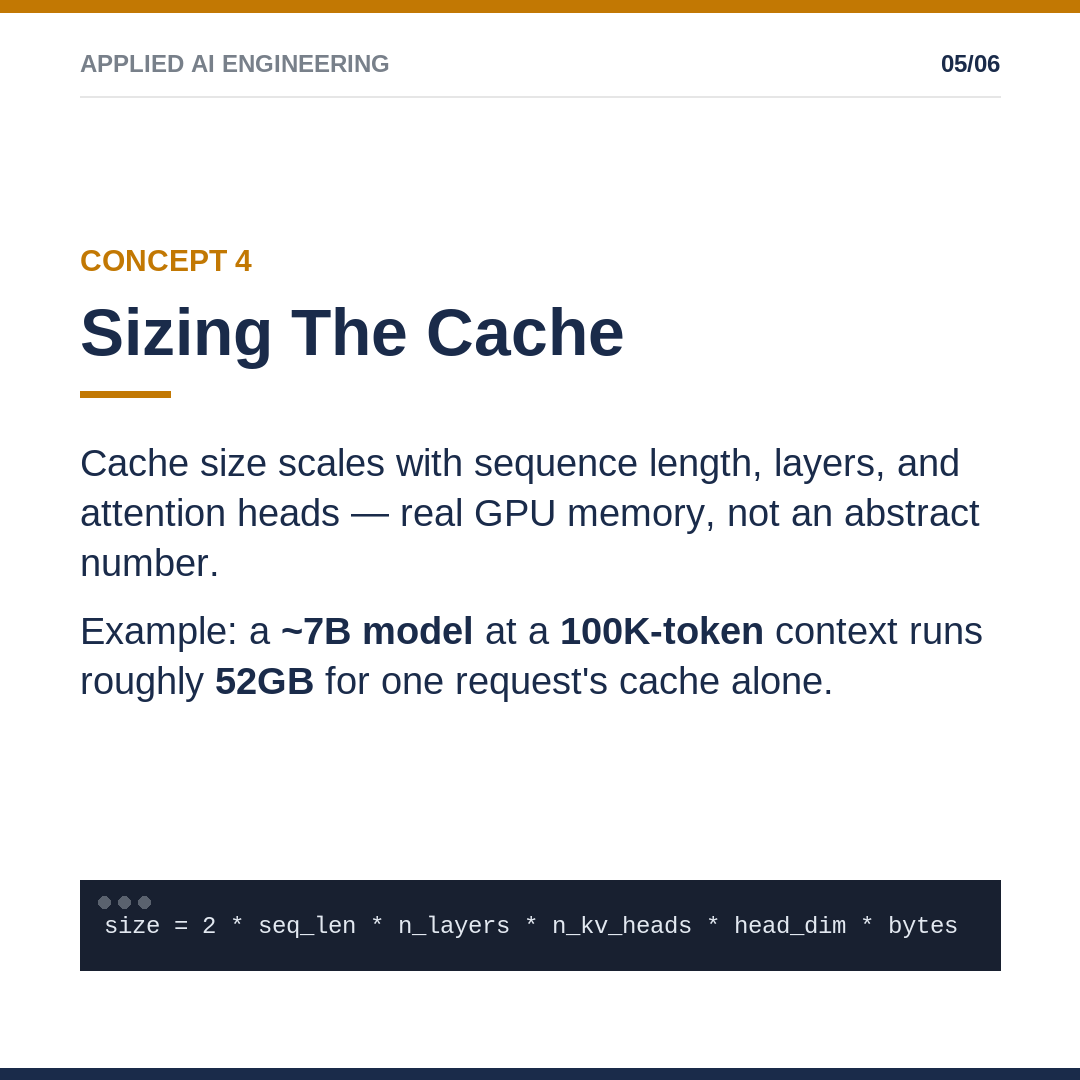
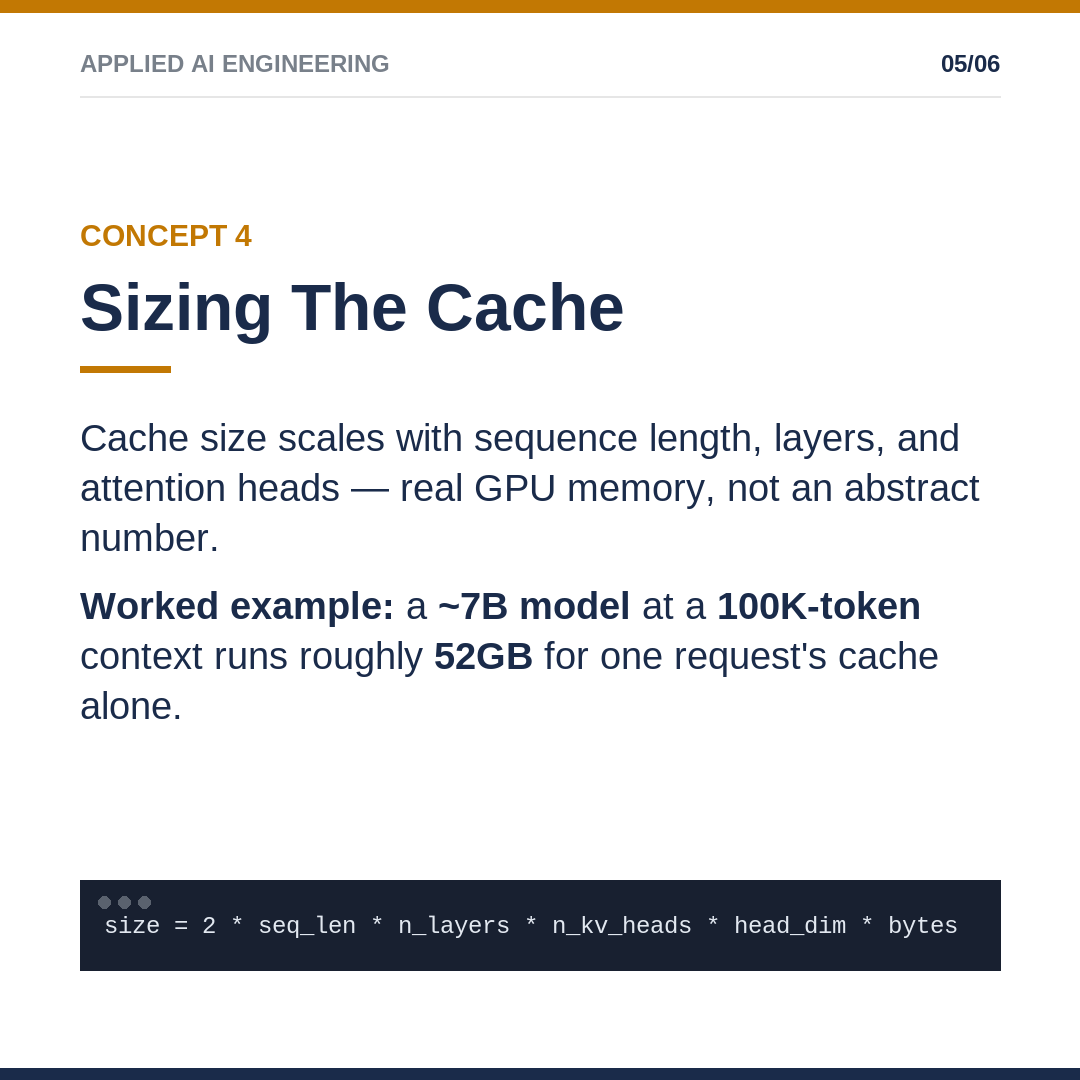
posts: add diagram primitives, bold Example labels, add diagrams to 04/05/06/08/09/14/15, promote 06 and Q&A posts 19-21 to carousels

Changed region(s): [[0.0611, 0.3972, 0.9167, 0.6722], [0.0611, 0.1833, 0.5806, 0.3667]]

diff --git a/.claude/skills/posts/carousel_template.py b/.claude/skills/posts/carousel_template.py
@@ -104,7 +104,88 @@ def draw_rich_line(draw, x, y, line_words, font_reg, font_bold, fill):
             cx += draw.textlength(text, font=f)
         cx += space_w
 
-def slide(filename, slide_no, total, kicker, headline, body_lines, code=None, closing_q=None, series="APPLIED AI ENGINEERING"):
+# --- diagrams: for spatial/mechanistic concepts (pipelines, loops, stacks,
+# segmented budgets) that read faster as a picture than as a paragraph.
+# Each helper draws into a fixed-height band and returns nothing; slide()
+# reserves DIAGRAM_H for whichever one is passed via `diagram=`. ---
+
+DIAGRAM_H = 260
+
+def _fit_text(draw, text, font_path, max_size, min_size, max_width):
+    size = max_size
+    font = ImageFont.truetype(font_path, size)
+    while size > min_size and draw.textlength(text, font=font) > max_width:
+        size -= 2
+        font = ImageFont.truetype(font_path, size)
+    return font
+
+def flow_diagram(draw, x, y, w, steps):
+    """Horizontal boxes connected by arrows: A -> B -> C.
+    steps: list of short label strings (2-5 items)."""
+    n = len(steps)
+    box_h = 100
+    gap = 46
+    box_w = (w - gap * (n - 1)) // n
+    by = y + (DIAGRAM_H - box_h) // 2
+    for i, label in enumerate(steps):
+        bx = x + i * (box_w + gap)
+        draw.rectangle([bx, by, bx + box_w, by + box_h], outline=NAVY, width=3)
+        f = _fit_text(draw, label, FONT_BOLD, 30, 16, box_w - 24)
+        tw = draw.textlength(label, font=f)
+        draw.text((bx + (box_w - tw) / 2, by + (box_h - f.size) / 2 - 4), label, font=f, fill=NAVY)
+        if i < n - 1:
+            ax0 = bx + box_w
+            ax1 = ax0 + gap
+            ay = by + box_h // 2
+            draw.line([(ax0 + 6, ay), (ax1 - 10, ay)], fill=AMBER, width=4)
+            draw.polygon([(ax1 - 10, ay - 9), (ax1, ay), (ax1 - 10, ay + 9)], fill=AMBER)
+
+def stack_diagram(draw, x, y, w, layers):
+    """Vertical stacked boxes, top to bottom, connected by short lines.
+    layers: list of short label strings (3-6 items), top of stack first."""
+    n = len(layers)
+    gap = 12
+    box_h = (DIAGRAM_H - gap * (n - 1)) // n
+    for i, label in enumerate(layers):
+        ly = y + i * (box_h + gap)
+        draw.rectangle([x, ly, x + w, ly + box_h], outline=NAVY, width=3)
+        draw.rectangle([x, ly, x + 10, ly + box_h], fill=AMBER)
+        f = _fit_text(draw, label, FONT_BOLD, 30, 16, w - 50)
+        draw.text((x + 26, ly + (box_h - f.size) / 2 - 4), label, font=f, fill=NAVY)
+        if i < n - 1:
+            cx = x + w // 2
+            draw.line([(cx, ly + box_h), (cx, ly + box_h + gap)], fill=AMBER, width=3)
+
+def bar_diagram(draw, x, y, w, segments, dip_label=None):
+    """One horizontal bar split into proportional labeled segments.
+    segments: list of (label, weight) — weight is relative share of the bar.
+    dip_label: optional label for a shaded band across the bar's middle third,
+    used for a 'lost in the middle' style callout instead of a real curve."""
+    bar_h = 90
+    by = y + 40
+    total = sum(wt for _, wt in segments)
+    bx = x
+    f_lab = ImageFont.truetype(FONT_REG, 22)
+    for label, wt in segments:
+        seg_w = int(w * wt / total)
+        draw.rectangle([bx, by, bx + seg_w, by + bar_h], outline=NAVY, width=3)
+        lw = draw.textlength(label, font=f_lab)
+        if lw <= seg_w - 10:
+            draw.text((bx + (seg_w - lw) / 2, by + bar_h + 14), label, font=f_lab, fill=NAVY)
+        bx += seg_w
+    if dip_label:
+        # shaded band across the bar's middle third, drawn as amber hatching
+        # (no alpha compositing needed — stays reliable regardless of draw backend)
+        dip_x0 = x + int(w * 0.33)
+        dip_x1 = x + int(w * 0.67)
+        for hx in range(dip_x0, dip_x1, 14):
+            draw.line([(hx, by), (hx, by + bar_h)], fill=(230, 190, 130), width=3)
+        draw.rectangle([dip_x0, by, dip_x1, by + bar_h], outline=AMBER, width=4)
+        f_dip = ImageFont.truetype(FONT_BOLD, 24)
+        dw = draw.textlength(dip_label, font=f_dip)
+        draw.text((dip_x0 + (dip_x1 - dip_x0 - dw) / 2, by + bar_h + 46), dip_label, font=f_dip, fill=AMBER)
+
+def slide(filename, slide_no, total, kicker, headline, body_lines, code=None, closing_q=None, series="APPLIED AI ENGINEERING", diagram=None):
     img = Image.new("RGB", (W, H), WHITE)
     d = ImageDraw.Draw(img)
     margin = 80
@@ -139,6 +220,8 @@ def slide(filename, slide_no, total, kicker, headline, body_lines, code=None, cl
     content_h += 20 + 6 + 50  # underline gap + underline + gap after
     for wrapped in body_wrapped:
         content_h += len(wrapped) * 50 + 18
+    if diagram:
+        content_h += 24 + DIAGRAM_H
 
     # reserve space at the bottom for code block / closing question, if any
     if code:
@@ -169,6 +252,21 @@ def slide(filename, slide_no, total, kicker, headline, body_lines, code=None, cl
             draw_rich_line(d, margin, y, line, f_body, f_body_bold, NAVY)
             y += 50
         y += 18
+
+    # diagram - a picture in place of another paragraph, for pipeline/loop/
+    # stack/budget concepts (see SKILL.md "Diagram Over Prose For Spatial Concepts")
+    if diagram:
+        y += 24
+        kind, payload = diagram
+        if kind == "flow":
+            flow_diagram(d, margin, y, W - 2*margin, payload)
+        elif kind == "stack":
+            stack_diagram(d, margin, y, W - 2*margin, payload)
+        elif kind == "bar":
+            # payload is (segments, dip_label) — dip_label=None when there's no callout
+            segments, dip_label = payload
+            bar_diagram(d, margin, y, W - 2*margin, segments, dip_label=dip_label)
+        y += DIAGRAM_H
 
     # code block - pinned near bottom, dark bg like real code
     if code:
@@ -213,5 +311,28 @@ if __name__ == "__main__":
     slide("v2_s6.png", 6, 6, "Takeaway", "Get these four right",
           ["Multi-turn chat and agent flows", "stop feeling like guesswork."],
           closing_q="Which one trips you up \u2014 System or Tool?")
+
+    # diagram self-tests
+    slide("v3_flow.png", 2, 6, "Concept 1", "Two Phases, One Call",
+          ["**Prefill** processes the whole prompt in parallel.",
+           "**Decode** generates one token at a time after."],
+          diagram=("flow", ["Prompt In", "Prefill", "Decode", "Reply Out"]),
+          code="size = 2 * seq_len * n_layers * n_kv_heads * head_dim * bytes")
+
+    slide("v3_stack.png", 2, 5, "Reference Card", "The Agentic System Stack",
+          ["Five layers, bottom to top."],
+          diagram=("stack", ["Intake + Agent Loop", "Tools + RAG",
+                              "Memory + Orchestration", "Tracing + Guardrails",
+                              "Reliability + API Boundary"]))
+
+    slide("v3_bar.png", 2, 6, "Concept 1", "What Competes For The Budget",
+          ["Everything shares one fixed number of tokens."],
+          diagram=("bar", ([("System", 1), ("History", 3), ("Retrieved", 2),
+                             ("Input", 1), ("Reply", 1)], None)))
+
+    slide("v3_bar_dip.png", 3, 6, "Concept 2", "Lost In The Middle",
+          ["A fact placed mid-context gets attended to less reliably",
+           "than one near the start or end \u2014 even though it's in the window."],
+          diagram=("bar", ([("Start", 1), ("Middle", 2), ("End", 1)], "attention dips here")))
 
     print("done")

diff --git a/.claude/skills/posts/SKILL.md b/.claude/skills/posts/SKILL.md
@@ -28,14 +28,14 @@ Short sentences, no filler, no hype words. But every line has to stand on its ow
 
 ## Ground Abstract Concepts With A Real Example
 
-An abstract mechanism (tokenization, an attention head, a decode step) reads as pure theory until it's tied to a concrete instance — a real word, a real number, a real snippet. Wherever a concept is genuinely abstract (not already concrete, like a code import), work in a short, real example rather than leaving the definition to stand alone. Pull the example from the source wiki page when it has one; invent a small, obviously-correct one (a real word split into real subword pieces, a real number plugged into a real formula) when it doesn't — never a vague placeholder like "some word" or "a sentence."
+An abstract mechanism (tokenization, an attention head, a decode step) reads as pure theory until it's tied to a concrete instance — a real word, a real number, a real snippet. Wherever a concept is genuinely abstract (not already concrete, like a code import), work in a short, real example rather than leaving the definition to stand alone. Pull the example from the source wiki page when it has one; invent a small, obviously-correct one (a real word split into real subword pieces, a real number plugged into a real formula) when it doesn't — never a vague placeholder like "some word" or "a sentence." Before finalizing a carousel, check each concept slide directly: a plugged-in instance, or only the mechanism stated in the abstract? This is a common miss, not an edge case — add one if it's missing.
 
-✓ "A tokenizer splits words into pieces. Example: **\"tokenization\"** splits into **\"token\"** + **\"ization\"**." — the example makes the mechanism concrete instead of asserted.
+✓ "A tokenizer splits words into pieces. **Example:** **\"tokenization\"** splits into **\"token\"** + **\"ization\"**." — concrete instead of asserted, and the label is bolded so it scans like the term labels around it.
 ✗ "A tokenizer splits words into subword pieces based on frequency." — technically correct, but a first-time reader has nothing to picture.
 
 ## Bold The Term Being Defined
 
-When a line defines or names something ("X is Y," "X: Y," a term-then-explanation pattern — including anything that started life as a wiki table row, e.g. Query/Key/Value or Prefill/Decode), wrap the term itself in `**double asterisks**` in `body_lines` so it renders bold against the regular-weight explanation. `carousel_template.py`'s `slide()` and `draw_rich_line()` parse `**bold**` spans inline (mixing bold and regular text on the same wrapped line); `single_image_template.py`'s `items` list already bolds each row's `name` automatically — no markup needed there. Don't bold whole sentences or every noun — only the specific term a reader should be able to scan for.
+When a line defines or names something ("X is Y," "X: Y," a term-then-explanation pattern — including anything that started life as a wiki table row, e.g. Query/Key/Value or Prefill/Decode) or labels a worked instance (`**Example:**`, `**Worked example:**`), wrap the term/label in `**double asterisks**` in `body_lines` so it renders bold against the regular-weight explanation — `slide()`/`draw_rich_line()` parse `**bold**` spans inline; `single_image_template.py`'s `items` already bolds each row's `name`, no markup needed there. Don't bold whole sentences or every noun — only what a reader should be able to scan for.
 
 ✓ "**Query** is what a token looks for. **Key** is what it offers others." — a reader scanning the slide can immediately find each term.
 ✗ "Query is what a token looks for. Key is what it offers others." — same content, but nothing helps the eye separate the terms from the prose.
@@ -48,7 +48,7 @@ Teach the concept plainly first — imports, syntax, how it fits, what it's for.
 
 1. **Concept teaching** (primary) — one concept, taught plainly, experience tacked on only if real.
 2. **Production tradeoff** (occasional) — real capstone/production decision or bug. Problem → decision → result. Experience leads.
-3. **Interview nugget** (occasional) — a real question actually faced + the real answer, in caveman form.
+3. **Interview nugget** (occasional) — a real question actually faced + the real answer, in caveman form. Must trace to an actual `_interview.md` entry (fire-round or "Harder" section) — never invent a question. If the wiki's real answer is multi-sentence/scenario-based, default to a short carousel (one question, full answer, per slide) instead of a single-image; reserve single-image for answers that are genuinely one line in the source.
 
 ❌ Hype, unfinished thoughts, forced anchors, syllabus recaps with no teaching value.
 
@@ -78,7 +78,12 @@ Abstract AI art reads as slop and teaches nothing. Use the bundled Pillow templa
 
 **Layout:** amber top bar → series label + slide counter → divider → kicker (topic-specific, never generic) → bold headline → amber underline → body → optional code block or bold closing question → navy bottom bar.
 
-**Slide count vs. item count:** one item per slide is not a rule — a single tool/term with only a line or two of content leaves a slide mostly blank. Group 2-3 related items onto one slide (stack them as sub-headlines or a labeled list in `body_lines`) instead of stretching thin content across too many slides. Keep one item per slide only when it genuinely needs its own code block or fuller explanation.
+**Slide count vs. item count:** one item per slide is not a rule — a single tool/term with only a line or two of content leaves a slide mostly blank. Group 2-3 related items onto one slide (stack them as sub-headlines or a labeled list in `body_lines`) instead of stretching thin content across too many slides. Keep one item per slide only when it genuinely needs its own code block or fuller explanation. A diagram slide (below) is one item's content, not a spot for the full prose paragraph too — a diagram plus one short line is enough.
+
+**Diagram over prose for spatial concepts.** When a concept is a pipeline (A happens, then B), a loop (perceive → decide → act → repeat), a layered stack (this sits on top of that), or a segmented budget (one fixed total split into named parts), draw it instead of describing it in a paragraph — reserve prose for genuinely non-spatial concepts (a definition, a tradeoff, a rule). `carousel_template.py` provides three helpers, each reserving a fixed height in the slide (no layout math needed), passed via `slide(..., diagram=(kind, payload))`:
+- `flow_diagram` / `("flow", [labels])` — boxes connected by arrows. Prefill→Decode, the agent loop, paging into blocks.
+- `stack_diagram` / `("stack", [labels])` — vertical stacked boxes, top to bottom. A layer stack (e.g. the agentic system stack).
+- `bar_diagram` / `("bar", (segments, dip_label))` — one bar split into proportional labeled segments; `dip_label` (or `None`) shades a callout band across the middle third. The context window's token budget; a "lost in the middle" callout.
 
 **Carousel hard cap: 7 slides total** (title + closing included, so ~5 content slides). This is a ceiling, not a target — group facts aggressively to fit under it rather than thinning content across more slides. Long lists (source page has more distinct facts than 5 content slides can each carry substantively) mean splitting into two posts, not stretching one carousel past 7.
 
@@ -86,7 +91,7 @@ Abstract AI art reads as slop and teaches nothing. Use the bundled Pillow templa
 
 **Files (bundled):**
 - `assets/fonts/` — Liberation Sans Bold, Regular, Mono (SIL Open Font License, bundled so this works on any machine without system font installs)
-- `carousel_template.py` → `slide()` per slide: slide_no, total, kicker, headline, body_lines, optional code/closing_q. Title slide = no code. Content slide = kicker "Role N"/"Step N" + code. Closing slide = kicker "Takeaway" + closing question.
+- `carousel_template.py` → `slide()` per slide: slide_no, total, kicker, headline, body_lines, optional code/closing_q/diagram. Title slide = no code. Content slide = kicker "Role N"/"Step N" + code (or diagram, see above). Closing slide = kicker "Takeaway" + closing question.
 - `single_image_template.py` → `single_image()`: headline + list of (name, description) + footer code line. Keep each item's `description` to roughly one line (~50-55 chars) — the template wraps and vertically centers automatically, but with 4-5 items a description that wraps to 2+ lines can still push past the footer code block. If a description needs more than one line to say something real, that item belongs in a carousel slide instead, not squeezed into a single-image row.
 
 Both scripts resolve fonts relative to their own file location (`assets/fonts/`) — no system font dependency, works wherever the skill folder is placed.

diff --git a/assets/social-posts/21-qa-context-strategy/copy.md b/assets/social-posts/21-qa-context-strategy/copy.md
@@ -25,14 +25,13 @@ Prompt vs. context engineering — wording vs. everything in the window.
 #AppliedAI #LLM #AIEngineering #RAG #GenAI
 
 --- VISUAL FORMAT ---
-single image
-- kicker: Interview Nugget
-- headline: Context Strategy: Questions That Get Asked
-- 1. top_k 3 to 15 made answers worse? — Lost-in-the-middle. Check retrieval precision first.
-- 2. Prompt vs. context engineering? — One's wording. The other's everything in the window.
-- 3. "Just fine-tune the FAQ?" — FAQs change. Fine-tuning bakes in a snapshot that goes stale.
-- 4. 1M window isn't good news? — Removes the hard limit, not the quality-degradation one.
-- footer code: top_k = 3  # fewer, higher-precision chunks beat more, noisier ones
+carousel — 6 slides
+1. Title — "Context Strategy: Questions That Actually Get Asked"
+2. Question 1 — top_k 3→15 Made Answers Worse (code: top_k = 3  # fewer, higher-precision chunks beat more, noisier ones)
+3. Question 2 — Prompt vs. Context Engineering
+4. Question 3 — "Just Fine-Tune The FAQ?"
+5. Question 4 — Why A 1M Window Isn't Good News
+6. Takeaway — closing question
 
 --- SCHEDULE ---
 Wed 9/23: IG 6pm · LinkedIn 4pm

diff --git a/assets/social-posts/20-qa-sampling-and-determinism/copy.md b/assets/social-posts/20-qa-sampling-and-determinism/copy.md
@@ -23,13 +23,12 @@ Which of these have you actually been asked?
 #AppliedAI #LLM #AIEngineering #GenAI
 
 --- VISUAL FORMAT ---
-single image
-- kicker: Interview Nugget
-- headline: Sampling & Determinism: Questions That Get Asked
-- 1. "temp=0 + seed=42 = deterministic?" — Both are best-effort. Test structure, not exact bytes.
-- 2. Does temperature help creative tasks? — Only if correctness isn't buried in the wrapper.
-- 3. Why does CoT hurt small models? — A bad early reasoning step compounds into a worse answer.
-- footer code: assert response.tool_calls[0].name == "expected_tool"
+carousel — 5 slides
+1. Title — "Sampling & Determinism: Questions That Actually Get Asked"
+2. Question 1 — "Fully Deterministic, Safe To Test"? (code: assert response.tool_calls[0].name == "expected_tool")
+3. Question 2 — When Does Temperature Hurt?
+4. Question 3 — Why CoT Can Hurt Small Models
+5. Takeaway — closing question
 
 --- SCHEDULE ---
 Tue 9/22: IG 5pm · LinkedIn 11am

diff --git a/assets/social-posts/06-paged-attention-and-efficient-serving/copy.md b/assets/social-posts/06-paged-attention-and-efficient-serving/copy.md
@@ -25,14 +25,11 @@ Does your serving stack implement paged KV-cache management?
 #AppliedAI #LLM #AIEngineering #GenAI
 
 --- VISUAL FORMAT ---
-single image
-- kicker: AI & LLM Basics
-- headline: Serving The KV Cache Like Virtual Memory
-- 1. The Problem — Reserves memory for worst-case length, mostly wasted.
-- 2. The Fix — Fixed-size blocks, allocated only as tokens generate.
-- 3. Block Table — Maps positions to scattered blocks, like OS memory.
-- 4. Continuous Batching — Requests join and leave a batch continuously.
-- footer code: block_table[request_id].append(allocate_free_block())
+carousel — 4 slides
+1. Title — "Serving The KV Cache Like Virtual Memory"
+2. Concept 1 — Fixed-Size Blocks, Allocated On Demand (diagram: New Token → Block Table → Free Block)
+3. Concept 2 — Block Table + Continuous Batching (code: block_table[request_id].append(allocate_free_block()))
+4. Takeaway — closing question
 
 --- SCHEDULE ---
 Wed 9/2: IG 6pm · LinkedIn 4pm

diff --git a/assets/social-posts/19-qa-tokens-and-cost/copy.md b/assets/social-posts/19-qa-tokens-and-cost/copy.md
@@ -23,13 +23,12 @@ Which of these have you actually been asked?
 #AppliedAI #LLM #AIEngineering #GenAI
 
 --- VISUAL FORMAT ---
-single image
-- kicker: Interview Nugget
-- headline: Tokens & Cost: Questions That Actually Get Asked
-- 1. "40% over budget?" — 1 word ≈ 1 token is a rough average, not a rule. Measure it.
-- 2. "Same 128K, different price?" — Window size and per-token price are independent axes.
-- 3. Why pick a smaller window? — It forces discipline — caps cost and lost-in-the-middle risk.
-- footer code: litellm.token_counter(model=..., messages=messages)  # measure, don't guess
+carousel — 5 slides
+1. Title — "Tokens & Cost: Questions That Actually Get Asked"
+2. Question 1 — The 40% Over-Budget Estimate (code: litellm.token_counter(...))
+3. Question 2 — Same 128K, Different Price
+4. Question 3 — Why Pick A Smaller Window?
+5. Takeaway — closing question
 
 --- SCHEDULE ---
 Mon 9/21: IG 7pm · LinkedIn 10am
